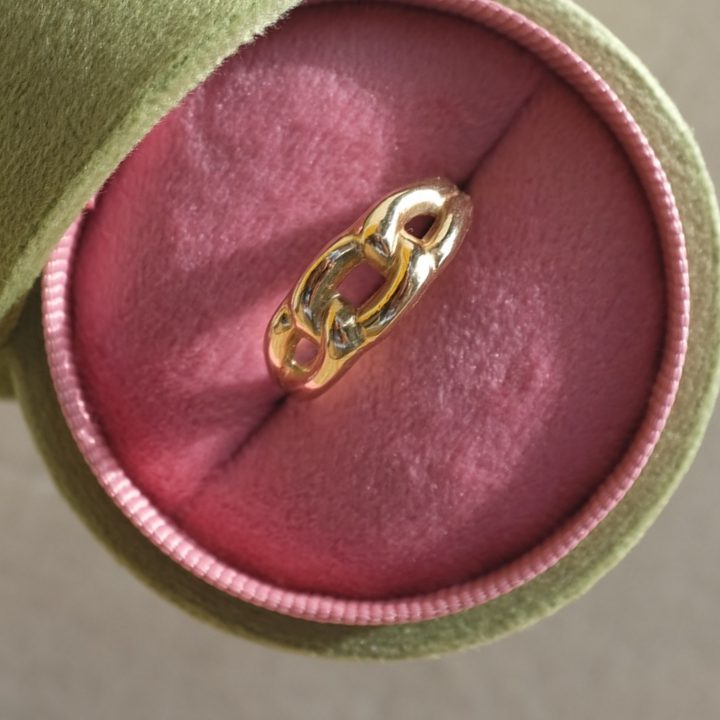
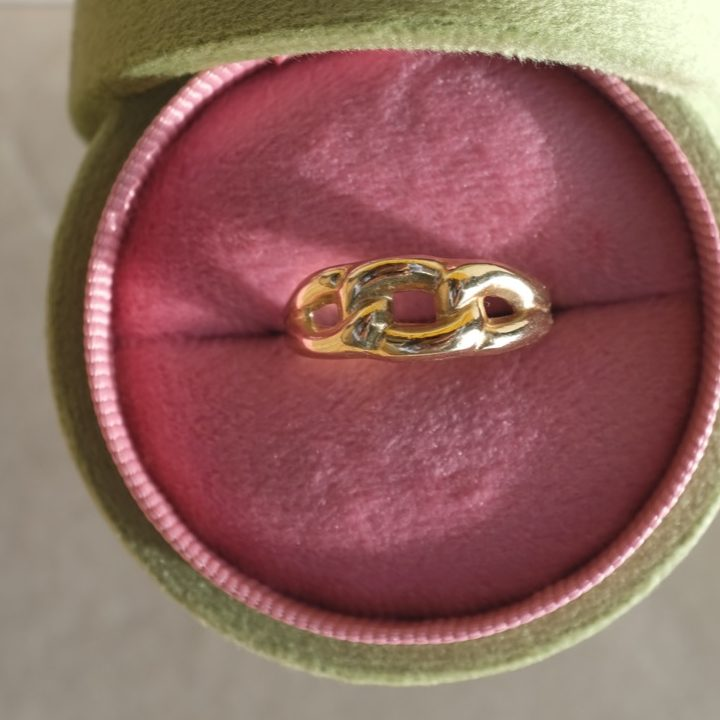
Rotate product photos a further 45 degrees (90 total)
Claude-Session: https://claude.ai/code/session_011VoQq5eX5qc1PzeRKD8shd

diff --git a/site/scripts/build-photos.py b/site/scripts/build-photos.py
@@ -1,4 +1,4 @@
-"""Builds the web-sized, 45-degree-rotated product crops in public/products
+"""Builds the web-sized, 90-degree-rotated product crops in public/products
 from the originals in photos-raw/. Run from site/: python3 scripts/build-photos.py
 Needs Pillow. Rotation is baked in so every product photo is consistent."""
 import os
@@ -22,13 +22,14 @@ PHOTOS = {
     "story-4": ("Ring16_02_USABLE_orig3179.JPG", CX, CY, 760),
 }
 OUT = 720
+ROTATE = 90  # degrees clockwise
 os.makedirs("public/products", exist_ok=True)
 for name, (src, cx, cy, size) in PHOTOS.items():
     im = Image.open(f"photos-raw/{src}").convert("RGB")
-    # take a larger square, rotate 45 degrees clockwise, then trim the corners
+    # take a larger square, rotate 90 degrees clockwise (45 + a further 45), then trim the corners
     big = int(size * 1.5)
     im = im.crop((cx - big // 2, cy - big // 2, cx + big // 2, cy + big // 2))
-    im = im.rotate(-45, resample=Image.BICUBIC)
+    im = im.rotate(-ROTATE, resample=Image.BICUBIC)
     m = (big - size) // 2
     im = im.crop((m, m, m + size, m + size)).resize((OUT, OUT), Image.LANCZOS)
     im.save(f"public/products/{name}.jpg", quality=82)
